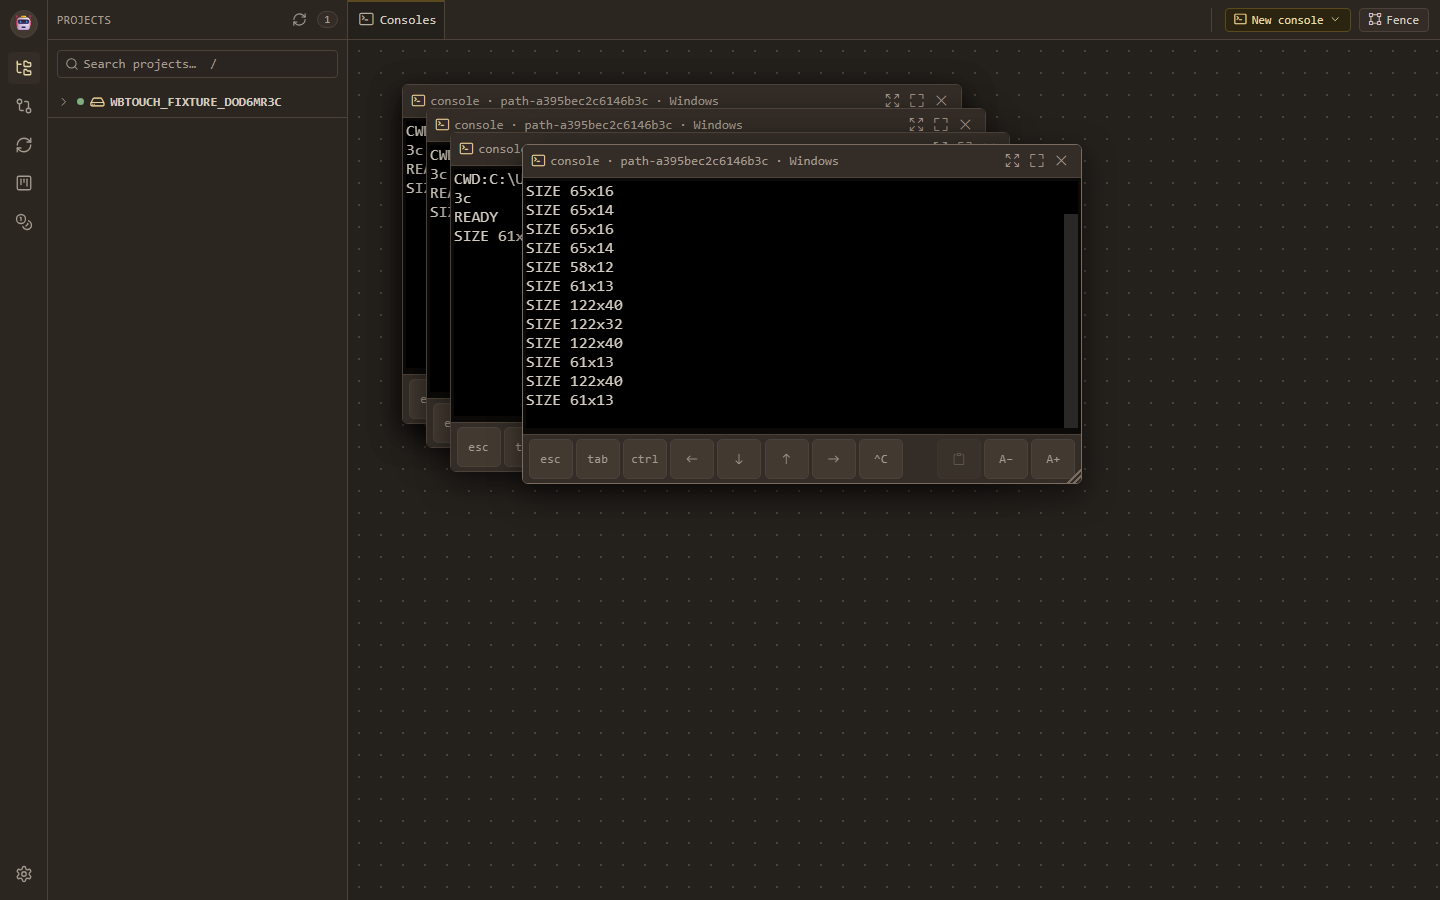
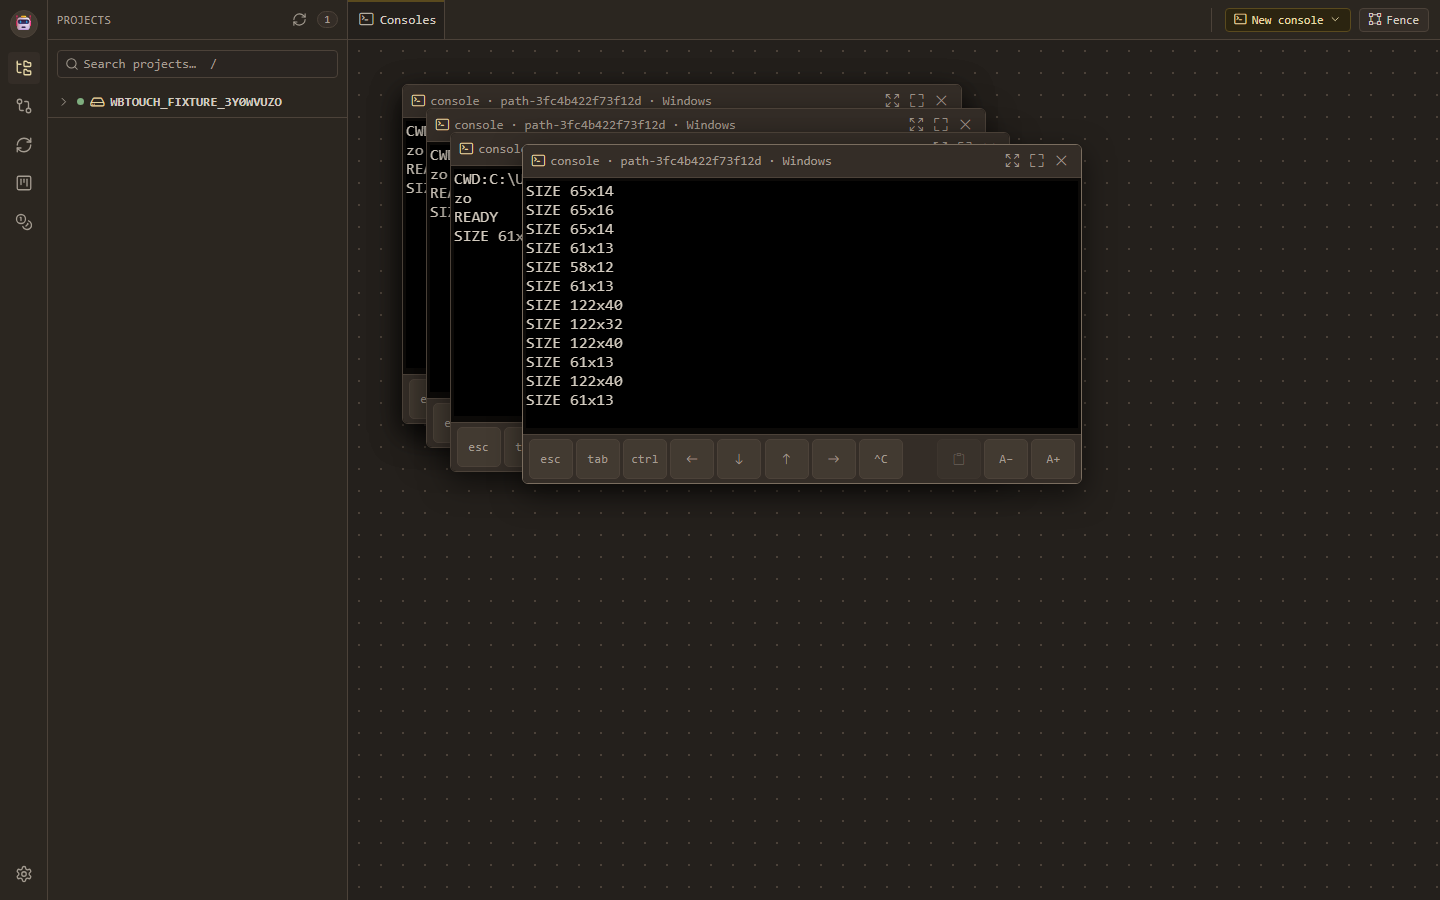
fix(workbench): a fingertip-sized resize, and no GPU renderer on WebKit
Two more from the iPad.

Resizing worked but was laborious, which is the honest description of aiming a
9mm fingertip at a 12px corner band sized for a cursor that lands on the pixel it
is pointed at. Under `(any-pointer: coarse)` the bands grow to 26px corners and
14px edges — the target, not the chrome: they stay invisible, and the visible
16px grip the operator actually aims at is now covered whole by the band that
answers. The key bar takes `z-index: 3` in the same breath, or a grown handle
would swallow the lower half of every button in the row. The trade is deliberate
and written down: with the bar shown the bottom edge belongs to the keys, and a
window resizes from its sides, its top, or the top corners.

The text "distorting" while scrolling is the WebGL renderer, not the gesture.
The tell was in the report: it happens when dragging the scrollbar with a
trackpad too, a path this file does not touch. Upstream has carried Safari
breakage for years (xterm.js #3357, #5816) and the standing answer is to not use
the addon there, so it is skipped when `navigator.vendor` says WebKit — the
engine question, not the brand one, because every browser on iPadOS is WebKit
underneath. The DOM renderer is slower and correct, which is the right way round
for a console.

Two things that are right regardless of the renderer, and were not. The touch
scroll is now coalesced to one `scrollLines` per animation frame: `touchmove`
[…]

Changed region(s): [[0.375, 0.0933, 0.5625, 0.1867], [0.7188, 0.2178, 0.75, 0.4667], [0.1562, 0.0933, 0.1875, 0.1244]]

diff --git a/crates/ralphy-daemon/assets/ui/wb-console.js b/crates/ralphy-daemon/assets/ui/wb-console.js
@@ -3051,6 +3051,15 @@ window.WBConsole = (function () {
   // terminal's own cell height, sign flipped because dragging the content DOWN
   // moves the view UP. A zero/absent cell height (a terminal mid-teardown, or
   // one that has never laid out) yields 0 rather than Infinity.
+  // Whether this engine must render the terminal in the DOM instead of on the
+  // GPU. `navigator.vendor` is the engine question, not the brand one: WebKit
+  // answers "Apple Computer, Inc." in Safari AND in every other browser on
+  // iPadOS, which are all WebKit underneath, while Chromium answers "Google
+  // Inc." and Firefox answers "". Pure so the string table is the contract.
+  function prefersDomRenderer(vendor) {
+    return typeof vendor === "string" && vendor.startsWith("Apple");
+  }
+
   function touchScrollLines(dyPx, cellHeight) {
     if (!Number.isFinite(dyPx) || !Number.isFinite(cellHeight) || cellHeight <= 0) return 0;
     return -dyPx / cellHeight;
@@ -3386,11 +3395,21 @@ window.WBConsole = (function () {
     // GPU glyph rendering with a DOM fallback: if WebGL is unavailable (headless,
     // no GPU) or the context is lost, dispose the addon and xterm falls back to
     // DOM without dropping the session.
-    try {
-      const webgl = new WebglAddon.WebglAddon();
-      webgl.onContextLoss(() => webgl.dispose());
-      term.loadAddon(webgl);
-    } catch {}
+    //
+    // NOT on WebKit. The addon renders scrolled rows twice there — reported from
+    // an iPad as the text "distorting", and reproduced by dragging the scrollbar
+    // with a trackpad, which is a path this file does not touch, so it is the
+    // renderer and not our gesture. Upstream has carried Safari breakage for
+    // years (xterm.js #3357, #5816) and the standing answer is the same one
+    // taken here: do not use it. Every browser on iPadOS is WebKit, so this is
+    // about the engine, not the brand.
+    if (!prefersDomRenderer(navigator.vendor)) {
+      try {
+        const webgl = new WebglAddon.WebglAddon();
+        webgl.onContextLoss(() => webgl.dispose());
+        term.loadAddon(webgl);
+      } catch {}
+    }
     term.loadAddon(new WebLinksAddon.WebLinksAddon());
 
     // The touch gesture this terminal owns (see `touchScrollLines`). Only a
@@ -3409,16 +3428,38 @@ window.WBConsole = (function () {
     // Scroll by a fractional number of lines, carrying the remainder: a slow
     // drag moves less than one row per event, and truncating each one
     // separately would round the whole gesture away to nothing.
-    const scrollByPixels = (dy) => {
-      touchAccum += touchScrollLines(dy, cellHeight());
+    //
+    // Coalesced to ONE scroll per frame. `touchmove` fires faster than the
+    // display refreshes, and a `scrollLines` per event asks the renderer for
+    // several paints inside one frame — work that can only be thrown away, and
+    // on a slow renderer shows up as a half-updated screen.
+    let scrollRaf = 0;
+    const flushScroll = () => {
+      scrollRaf = 0;
       const whole = Math.trunc(touchAccum);
       if (whole === 0) return;
       touchAccum -= whole;
       term.scrollLines(whole);
     };
+    const scrollByPixels = (dy) => {
+      touchAccum += touchScrollLines(dy, cellHeight());
+      if (!scrollRaf) scrollRaf = requestAnimationFrame(flushScroll);
+    };
+    const stopScroll = () => {
+      if (scrollRaf) cancelAnimationFrame(scrollRaf);
+      scrollRaf = 0;
+    };
     const stopFling = () => {
       if (fling) cancelAnimationFrame(fling);
       fling = 0;
+    };
+    // Repaint every row. The DOM renderer is correct without this; it is here
+    // for the case a renderer left a row half-drawn mid-gesture, which is
+    // cheaper to correct once at the end than to prevent every frame.
+    const refreshScreen = () => {
+      try {
+        term.refresh(0, term.rows - 1);
+      } catch {}
     };
     body.addEventListener(
       "touchstart",
@@ -3458,15 +3499,25 @@ window.WBConsole = (function () {
       if (touchY == null) return;
       touchY = null;
       // A finger lifted long after it stopped moving is a hold, not a flick.
-      if (e.timeStamp - touchLastAt > 80 || Math.abs(touchVelocity) < FLING_MIN) return;
+      if (e.timeStamp - touchLastAt > 80 || Math.abs(touchVelocity) < FLING_MIN) {
+        refreshScreen();
+        return;
+      }
       let v = touchVelocity;
       let last = performance.now();
       const glide = (now) => {
         const step = flingStep(v, now - last);
         last = now;
         v = step.velocity;
-        scrollByPixels(step.dy);
+        // Already inside a frame: accumulate and flush HERE rather than through
+        // `scrollByPixels`, whose whole job is to defer to the next one.
+        touchAccum += touchScrollLines(step.dy, cellHeight());
+        stopScroll();
+        flushScroll();
         fling = v ? requestAnimationFrame(glide) : 0;
+        // The glide has stopped. A renderer that dropped a partial paint during
+        // the gesture is corrected here, once, instead of every frame.
+        if (!fling) refreshScreen();
       };
       fling = requestAnimationFrame(glide);
     };
@@ -3907,8 +3958,10 @@ window.WBConsole = (function () {
         }
         ro.disconnect();
         // A glide still running would keep calling `scrollLines` on a disposed
-        // terminal, one frame at a time, for as long as its velocity lasts.
+        // terminal, one frame at a time, for as long as its velocity lasts; a
+        // pending coalesced scroll would do it once.
         stopFling();
+        stopScroll();
         if (ws && ws.readyState <= 1) ws.close();
         term.dispose();
       },
@@ -4947,6 +5000,7 @@ window.WBConsole = (function () {
     keyboardInset,
     raiseMaximized,
     touchScrollLines,
+    prefersDomRenderer,
     flingStep,
     keySequence,
     applyCtrlLatch,

diff --git a/crates/ralphy-daemon/assets/ui/styles.css b/crates/ralphy-daemon/assets/ui/styles.css
@@ -2833,6 +2833,14 @@ body.runs-open .runs {
 .session-window.keys .session-keys {
   display: flex;
   flex: 0 0 auto;
+  /* ABOVE the resize handles, which are `z-index: 2` and overlap the window's
+     bottom edge. Without this the handles eat the lower band of every button in
+     the row — and on a coarse pointer, where the handles are grown to a finger's
+     size, they would eat most of it. The trade is deliberate: with the bar shown
+     the bottom edge belongs to the keys, and a window is resized from its sides,
+     its top, or the top corners. */
+  position: relative;
+  z-index: 3;
   align-items: center;
   gap: 0.2rem;
   padding: 0.25rem 0.35rem;
@@ -3039,6 +3047,45 @@ body.runs-open .runs {
     var(--border-focus) 82%,
     transparent 82%
   );
+}
+/* A FINGER is not a cursor. The bands above are sized for a mouse, which lands
+   on the pixel it is pointed at; a fingertip is ~9mm across and cannot hit a 6px
+   edge, which is why resizing by touch was reported as possible but laborious.
+   `any-pointer: coarse` rather than `pointer: coarse` — an iPad with a trackpad
+   keyboard reports a fine PRIMARY pointer and is still a tablet whose screen is
+   the other one. The bands stay invisible either way: this grows the target, not
+   the chrome. */
+@media (any-pointer: coarse) {
+  .session-handle.h-n,
+  .session-handle.h-s {
+    height: 14px;
+  }
+  .session-handle.h-e,
+  .session-handle.h-w {
+    width: 14px;
+  }
+  .session-handle.h-ne,
+  .session-handle.h-nw,
+  .session-handle.h-se,
+  .session-handle.h-sw {
+    width: 26px;
+    height: 26px;
+  }
+  /* The visible grip is a 16px hint drawn in the corner, and the operator aims
+     at it — so the corner band that answers has to cover it whole. */
+  .session-resize {
+    width: 26px;
+    height: 26px;
+  }
+  /* The fence's bands take the same treatment, for the same hand. */
+  .fence-edge[data-dir="n"],
+  .fence-edge[data-dir="s"] {
+    height: 16px;
+  }
+  .fence-edge[data-dir="e"],
+  .fence-edge[data-dir="w"] {
+    width: 16px;
+  }
 }
 /* the faux terminal (no backend — local echo) */
 .term {

diff --git a/crates/ralphy-daemon/tests/wb_console_touch.py b/crates/ralphy-daemon/tests/wb_console_touch.py
@@ -45,6 +45,9 @@ Scenario 12  a window is DRAGGED by touch, and the titlebar is declared a drag
 Scenario 13  reloading while a console is maximized does not bury it under the
              consoles restored after it
 
+Scenario 14  on a touch device the resize bands are a finger wide, the visible
+             grip is covered by one, and a finger actually resizes the window
+
 Run: python crates/ralphy-daemon/tests/wb_console_touch.py
 
 The daemon is stopped by its own subprocess handle, NEVER by name — a stray
@@ -370,6 +373,29 @@ def win_box(page, i):
         "(i) => { const w = document.querySelectorAll('.session-window')[i];"
         " return { left: w.offsetLeft, top: w.offsetTop }; }",
         i,
+    )
+
+
+def touch_drag_el(page, i, selector, dx, dy, steps=8):
+    """Drag an element inside the i-th window with a TOUCH pointer."""
+    return page.evaluate(
+        "([i, sel, dx, dy, steps]) => {"
+        "  const w = document.querySelectorAll('.session-window')[i];"
+        "  const h = w.querySelector(sel);"
+        "  const r = h.getBoundingClientRect();"
+        "  let x = r.left + r.width / 2, y = r.top + r.height / 2;"
+        "  const ev = (type, target, cx, cy, buttons) => target.dispatchEvent("
+        "    new PointerEvent(type, { pointerId: 9, pointerType: 'touch', isPrimary: true,"
+        "      button: 0, buttons, clientX: cx, clientY: cy, bubbles: true, cancelable: true }));"
+        "  ev('pointerdown', h, x, y, 1);"
+        "  for (let s = 0; s < steps; s++) {"
+        "    x += dx / steps; y += dy / steps;"
+        "    ev('pointermove', document, x, y, 1);"
+        "  }"
+        "  ev('pointerup', document, x, y, 0);"
+        "  return { w: w.offsetWidth, h: w.offsetHeight };"
+        "}",
+        [i, selector, dx, dy, steps],
     )
 
 
@@ -959,6 +985,80 @@ def main():
                 " if (w) w.querySelector('.session-max').click(); }"
             )
             page.wait_for_timeout(500)
+
+
+            # --- Scenario 14: a finger can resize, not just barely -------------
+            # A fresh TOUCH profile, because the band sizes are a media query and
+            # the desktop context above will never match it.
+            grip_ctx = browser.new_context(
+                viewport={"width": 1024, "height": 768}, has_touch=True, is_mobile=False
+            )
+            grip = desk_page(grip_ctx, settle=7000)
+            grip.locator(".session-window .xterm").first.wait_for(timeout=15000)
+            grip.wait_for_timeout(1200)
+            grip.evaluate(
+                "() => { for (const w of document.querySelectorAll('.session-window.maximized'))"
+                " w.querySelector('.session-max').click(); }"
+            )
+            grip.wait_for_timeout(600)
+            bands = grip.evaluate(
+                "() => { const w = document.querySelector('.session-window');"
+                " const se = w.querySelector('.session-handle.h-se').getBoundingClientRect();"
+                " const e = w.querySelector('.session-handle.h-e').getBoundingClientRect();"
+                " const vis = w.querySelector('.session-resize').getBoundingClientRect();"
+                " return { seW: se.width, seH: se.height, eW: e.width,"
+                "          coversGrip: se.left <= vis.left + 1 && se.top <= vis.top + 1 }; }"
+            )
+            check(
+                "14 the corner band is a fingertip, not a cursor's pixel",
+                bands["seW"] >= 24 and bands["seH"] >= 24,
+                f"{bands}",
+            )
+            check(
+                "14 …the edge bands grew with it",
+                bands["eW"] >= 12,
+                f"{bands}",
+            )
+            check(
+                "14 …and the band covers the visible grip the operator aims at",
+                bands["coversGrip"],
+                f"{bands}",
+            )
+            # The key bar must keep its own pixels: the handles overlap the bottom
+            # edge, and grown to a finger's size they would otherwise swallow the
+            # lower half of every button in the row. Asked BEFORE the resize
+            # below, while the window is still known to be inside the viewport —
+            # `elementFromPoint` answers null off-screen, which is not a verdict
+            # (CONTEXT.md -> Testing conventions: prove the element was visible).
+            keys_win = grip.evaluate(
+                "() => { const w = document.querySelector('.session-window');"
+                " const b = w.querySelector('.session-key[data-key=\"font-up\"]');"
+                " if (!b) return { ok: false, why: 'no key bar' };"
+                " const r = b.getBoundingClientRect();"
+                " if (b.offsetParent === null || r.width <= 0) return { ok: false, why: 'not painted' };"
+                " const x = r.left + r.width / 2, y = r.bottom - 4;"
+                " if (x < 0 || y < 0 || x > innerWidth || y > innerHeight)"
+                "   return { ok: false, why: 'off-screen' };"
+                " const hit = document.elementFromPoint(x, y);"
+                " return { ok: !!hit && hit.closest('.session-key') === b,"
+                "          hit: hit ? String(hit.className || hit.tagName) : null }; }"
+            )
+            check(
+                "14 the key bar owns its buttons where a resize handle overlaps them",
+                bool(keys_win and keys_win.get("ok")),
+                f"elementFromPoint over the last button = {keys_win}",
+            )
+            before_size = grip.evaluate(
+                "() => { const w = document.querySelector('.session-window');"
+                " return { w: w.offsetWidth, h: w.offsetHeight }; }"
+            )
+            after_size = touch_drag_el(grip, 0, ".session-handle.h-se", 90, 70)
+            check(
+                "14 a finger on the corner actually resizes the window",
+                after_size["w"] > before_size["w"] and after_size["h"] > before_size["h"],
+                f"{before_size} -> {after_size}",
+            )
+            grip_ctx.close()
 
             page.screenshot(path=os.path.join(SHOT_DIR, SHOT))
             info("screenshot", os.path.join(SHOT_DIR, SHOT))

diff --git a/docs/WORKBENCH-BUILD-GUIDE.md b/docs/WORKBENCH-BUILD-GUIDE.md
@@ -592,7 +592,17 @@ desktop cost — each is inert where it does not apply.
   system text selection. Each handle also needs `touch-action: none`, or the
   browser claims the first few pixels as a scroll and fires `pointercancel`, plus
   `-webkit-user-select`/`-webkit-touch-callout: none` for the long-press callout.
-  A gesture tracks one `pointerId`: a second finger opens its own stream.
+  A gesture tracks one `pointerId`: a second finger opens its own stream. Under
+  `(any-pointer: coarse)` the invisible bands grow to a fingertip — 26px corners,
+  14px edges — and the key bar takes `z-index: 3` so a grown handle cannot
+  swallow the lower half of its buttons. The trade: with the bar shown, the
+  bottom edge belongs to the keys and a window resizes from its sides, its top,
+  or the top corners.
+- **The WebGL renderer is skipped on WebKit** (`prefersDomRenderer`). It draws
+  scrolled rows twice on Safari and iPadOS, which reads as the text "distorting";
+  upstream has carried it for years (xterm.js #3357, #5816) and the standing
+  answer is not to use it. `navigator.vendor` is the engine question, not the
+  brand one — every browser on iPadOS is WebKit underneath.
 - **A maximized console is raised after a desk restore** (`raiseMaximized`).
   Windows are spawned in record order and each raises itself, so a maximized
   record restored early ended up under every console after it. Not pinned in CSS:
